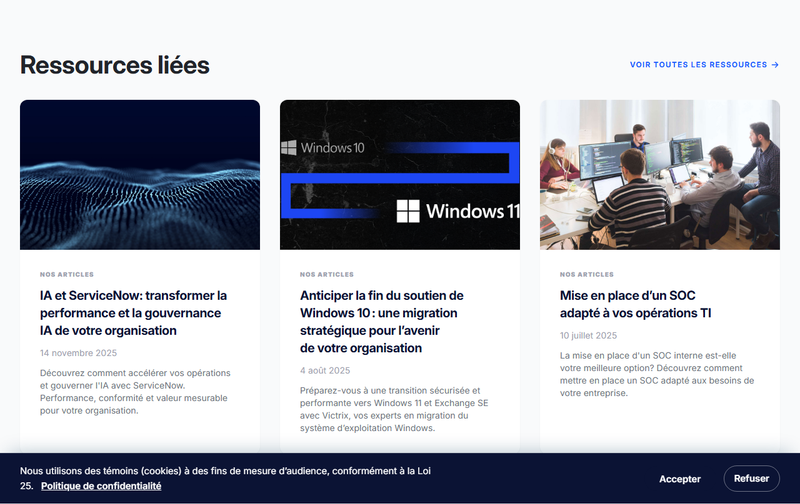
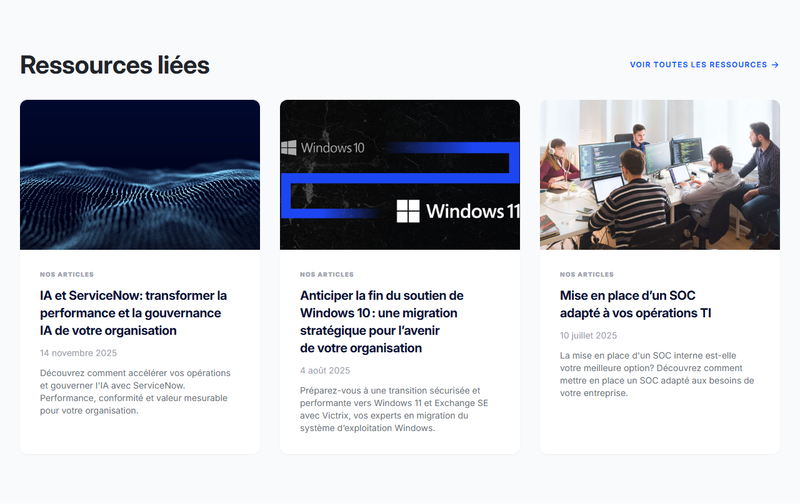
feat(cms): palette — « Bénéfices » renommé « Cartes à icônes » (clé technique intacte) ; fix(previews): bandeau consentement masqué à la capture ; chore: vignettes 30/30 régénérées

Changed region(s): [[0.0, 0.8631, 1.0, 1.0]]

diff --git a/docs/guide-edition.md b/docs/guide-edition.md
@@ -64,7 +64,7 @@ C'est la grande nouveauté : des pages construites par assemblage de sections.
 2. La page s'ouvre dans l'**éditeur visuel** : la page rendue à droite, les
    sections à gauche.
 3. **+ Ajouter une section** propose la palette : **une trentaine de
-   sections** (héros, bénéfices, FAQ, formulaire, appel à l'action,
+   sections** (héros, cartes à icônes, FAQ, formulaire, appel à l'action,
    témoignage, bandeau logos, chiffres, vidéo, grilles bento, tuiles, cartes
    d'offre, réalisations…), chacune avec sa **vignette d'aperçu** dans le
    sélecteur. Glisser pour réordonner; chaque section a ses champs (textes,
@@ -412,7 +412,7 @@ champ libre). Ce n'est pas une limitation gratuite : chaque liste garantit la
 | Champ | Pourquoi une liste fermée |
 |---|---|
 | Peau de carte (« claire / image / bleue / nuit ») | seules ces variantes existent dans le design |
-| Icônes (cartes, bénéfices, réalisations…) | l'icône vient d'une bibliothèque dessinée pour le site |
+| Icônes (cartes à icônes, réalisations…) | l'icône vient d'une bibliothèque dessinée pour le site |
 | Type de champ de formulaire | chaque type a son comportement serveur (validation, courriel) |
 | Couleur d'accent | bornée aux couleurs de la **charte** — pas de couleur libre, la cohérence visuelle est garantie d'avance |
 
